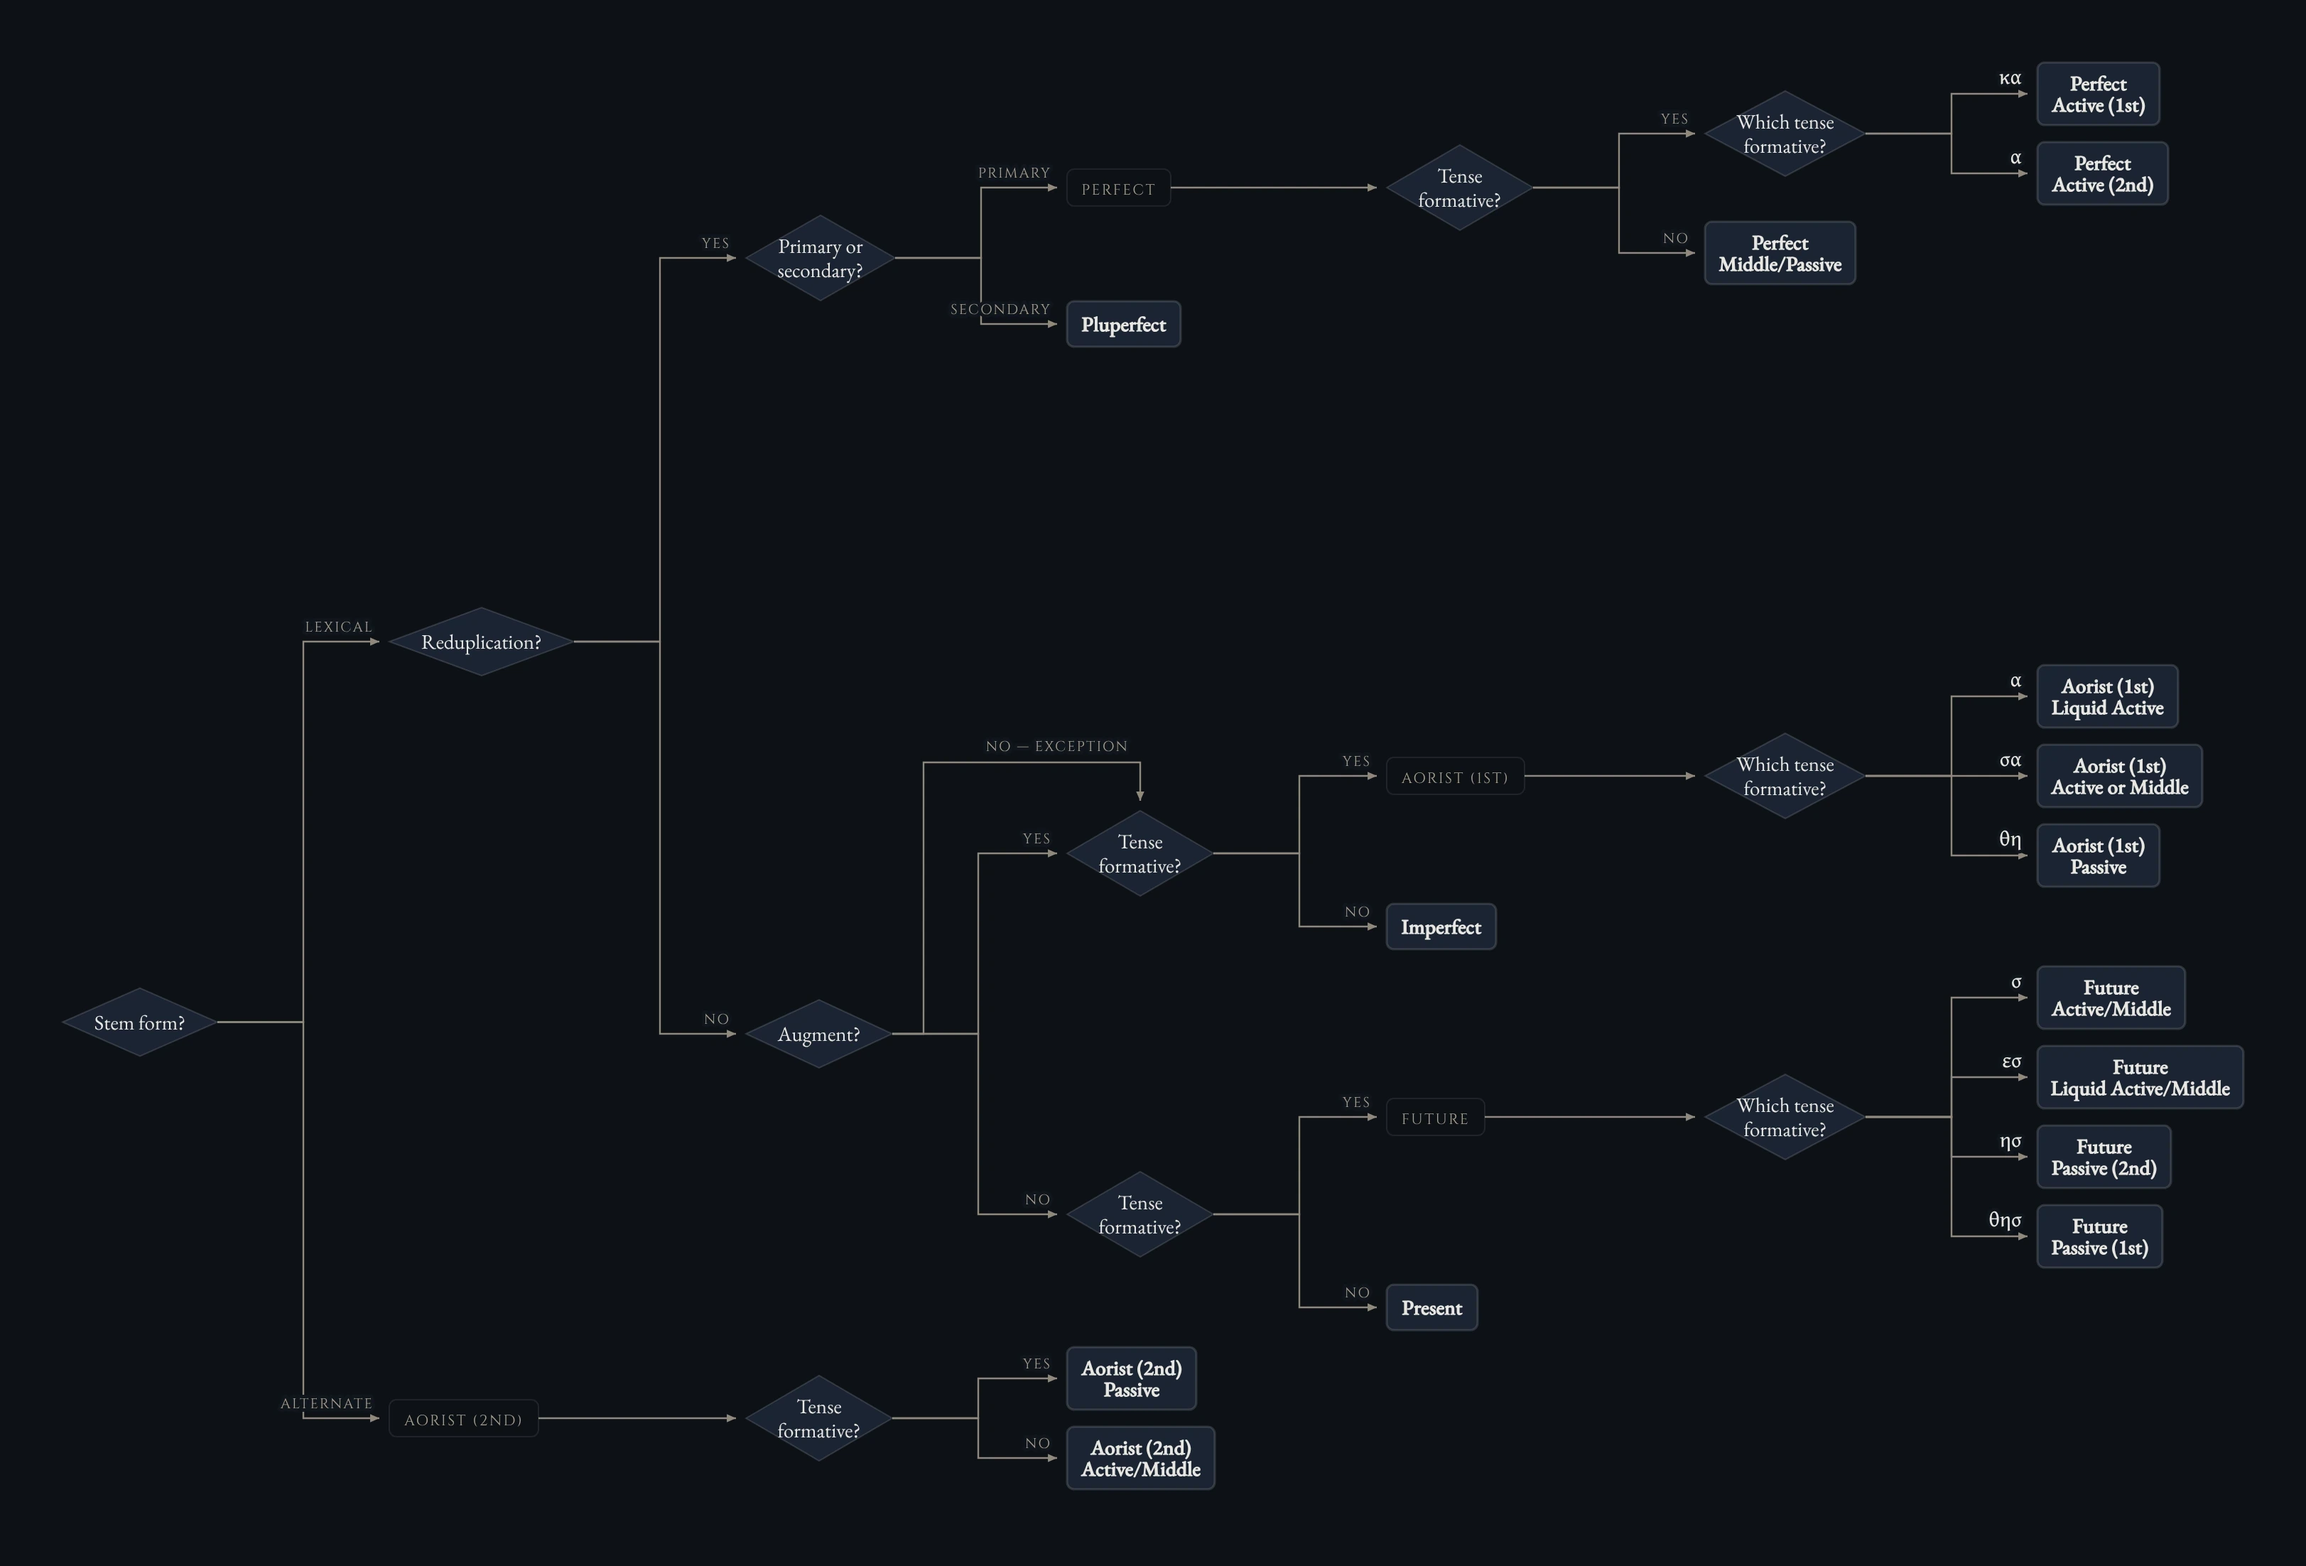
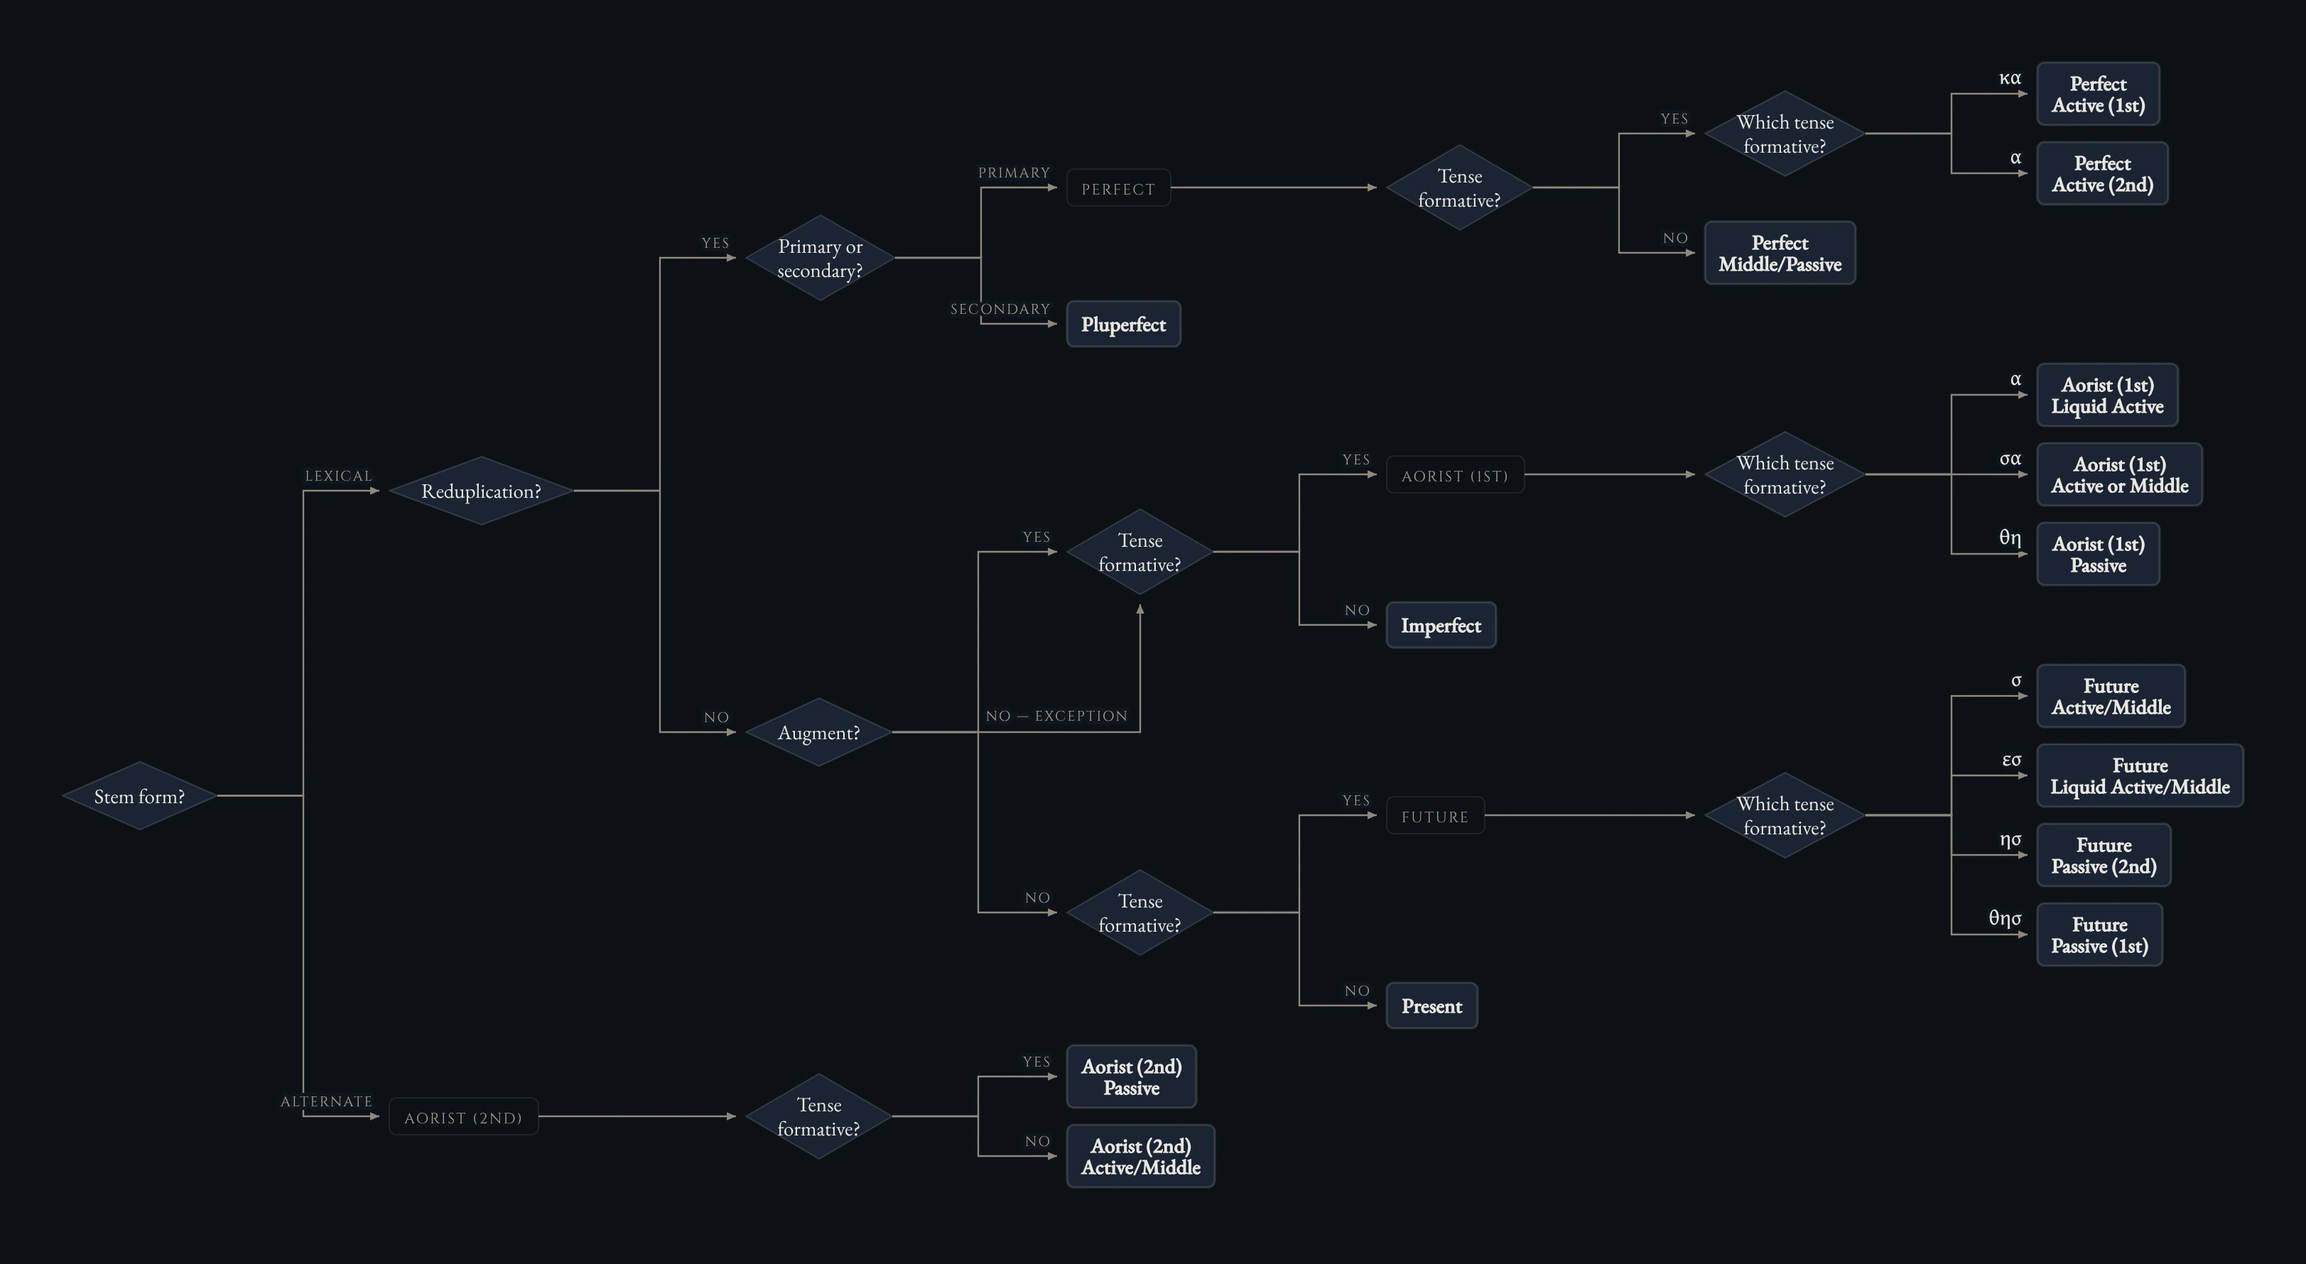
node style fixes in flowchart game

diff --git a/greek/parsing-flowchart.html b/greek/parsing-flowchart.html
@@ -635,11 +635,33 @@ function layout(svg, vis, vert, GR){
       colX[d]=x; x+=w+GAPX;
     }
     let cur=PAD;
+    const placed={}, bare={};
     (function place(id){
-      const kids=GR[id].kids.filter(function(k){return vis.has(k.to);});
-      if(!kids.length){ S[id].y=cur+S[id].h/2; cur+=S[id].h+GAPY; return; }
+      /* Where branches converge a node has more than one parent, and without
+         this guard its whole subtree was laid out twice: the second pass
+         overwrote the positions and the first pass's vertical band was left
+         empty, which also stranded the first parent above a node that had
+         since moved. Lay each node out once; a parent whose children are all
+         placed already takes its own slot. */
+      if(placed[id]) return;
+      placed[id]=1;
+      const all=GR[id].kids.filter(function(k){return vis.has(k.to);});
+      const kids=all.filter(function(k){return !placed[k.to];});
+      if(!kids.length){ bare[id]=1; S[id].y=cur+S[id].h/2; cur+=S[id].h+GAPY; return; }
       kids.forEach(function(k){ place(k.to); });
-      const f=S[kids[0].to], l=S[kids[kids.length-1].to];
+      /* A child pointing at a node some earlier branch already placed has no
+         subtree of its own to be centred on, so it took a bare slot and ended
+         up hugging the sibling before it. Space those evenly between the
+         siblings that do have a position of their own. */
+      for(let i=0;i<all.length;i++){
+        if(!bare[all[i].to]) continue;
+        let a=i-1; while(a>=0 && bare[all[a].to]) a--;
+        let b=i+1; while(b<all.length && bare[all[b].to]) b++;
+        if(a<0 || b>=all.length) continue;
+        const ya=S[all[a].to].y, yb=S[all[b].to].y;
+        S[all[i].to].y = ya + (yb-ya)*((i-a)/(b-a));
+      }
+      const f=S[all[0].to], l=S[all[all.length-1].to];
       const top=f.y-f.h/2, bot=l.y+l.h/2;
       if(bot-top<S[id].h) cur+=S[id].h-(bot-top);
       S[id].y=(top+bot)/2;
@@ -716,7 +738,8 @@ function renderFlow(host, vis, opt){
       if(!vis.has(k.to)) return;
       const c=L.S[k.to]; if(!c) return;
       const gap=Math.abs(a.y-c.y);
-      if(!(k.to in primary) || gap<primary[k.to].gap) primary[k.to]={key:id+'#'+ki, gap:gap};
+      if(!(k.to in primary) || gap<primary[k.to].gap)
+        primary[k.to]={key:id+'#'+ki, gap:gap, bend:a.x+a.w+L.GAPX/2};
     });
   });
   L.nodes.forEach(function(id){
@@ -731,19 +754,23 @@ function renderFlow(host, vis, opt){
            the same side would run both lines alongside each other and cross, so
            take the free corner: along the node's vertical axis, into the top or
            bottom point depending on which side this branch starts from. */
+        /* Straight along this branch's own row, then one turn into the node's
+           near corner — from below it rises into the bottom point, from above
+           it drops into the top. Two segments, one turn, and the label lies
+           flat on the straight run like every other edge label. */
         const ccx=c.x+c.w/2, px=a.x+a.w;
-        const topY=c.y-c.h/2-34;                 // a lane above the node
-        const mx=Math.max(px+22, ccx-170);       // where this branch leaves the row
+        const below=a.y>c.y;
+        const endY=below ? c.y+c.h/2+7 : c.y-c.h/2-7;
         const okE=opt.okEdges&&opt.okEdges.has(id+'>'+k.to);
         const deadE=opt.dead&&(opt.dead.has(k.to)||opt.dead.has(id));
         lines.appendChild(el('path',{
-          d:'M'+px+','+a.y+' H'+mx+' V'+topY+' H'+ccx+' V'+(c.y-c.h/2-7),
+          d:'M'+px+','+a.y+' H'+ccx+' V'+endY,
           'marker-end':'url(#fcArr)'},
           'cv-line'+(gh?' ghost':'')+(okE?' is-ok':'')+(deadE?' is-dead':'')));
         if(k.label){
           /* flat on the horizontal run, right-aligned before the turn, the way
              every other edge label in the chart sits */
-          const t0=el('text',{x:ccx-8,y:topY-8,'text-anchor':'end'}, k.gk?'cv-gk':'cv-edge');
+          const t0=el('text',{x:ccx-8,y:a.y-8,'text-anchor':'end'}, k.gk?'cv-gk':'cv-edge');
           t0.textContent=k.label; lines.appendChild(t0);
         }
         return;
